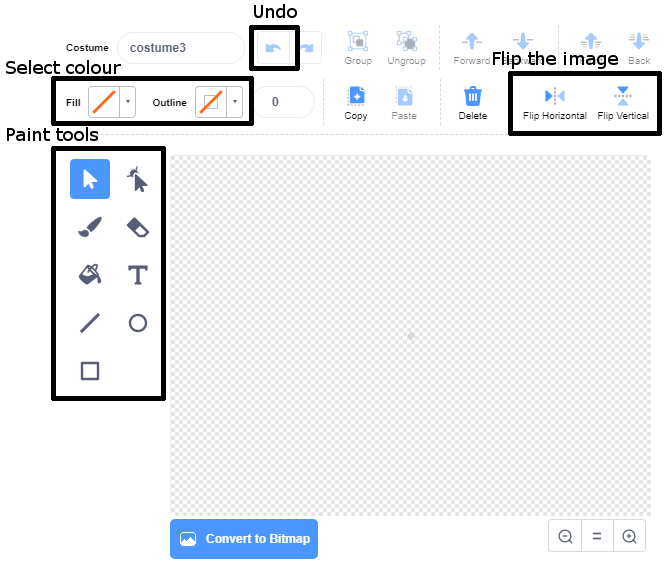
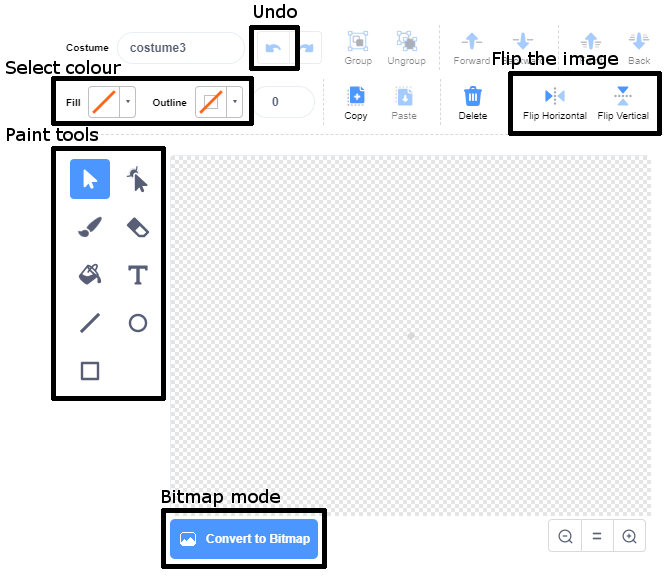
updates after readthrough

Changed region(s): [[0.2402, 0.8423, 0.5105, 0.9983]]

diff --git a/en/content.md b/en/content.md
@@ -1,4 +1,4 @@
-# Game design
+# Graphics for games
 
 # Leader notes
 
@@ -6,7 +6,7 @@
 
 This activity fulfills Stage 3, Requirement 3 of the Digital Maker Staged Activity Badge (design and create digital graphics). 
 
-Young people will design a theme and create the sprites for a computer game.
+Young people will design a theme and create the sprites and background for a computer game.
 
 ## Information 
 
@@ -23,12 +23,12 @@ Young people will design a theme and create the sprites for a computer game.
 
 ### If your meeting place has WiFi
 
-Run Scratch online in a web browser with an internet connection and open the starter project "shape shooter" using this link [rpf.io/scouts-game-design-on](http://rpf.io/scouts-game-design-on).
+Run Scratch online in a web browser with an internet connection and open the starter project "shape shooter" using this link [rpf.io/scouts-graphics-on](http://rpf.io/scouts-game-design-on).
 
 ### If your meeting place doesn’t have WiFi
 
 + Download the Scratch Desktop application beforehand; refer to the Scratch guide [rpf.io/scouts-scratch](http://rpf.io/scouts-scratch) for instructions. 
-+ Download the Scouts Game Design starter project "shape-shooter.sb3" from [rpf.io/scouts-game-design-go](http://rpf.io/scouts-game-design-go).
++ Download the Scouts Game Design starter project "shape-shooter.sb3" from [rpf.io/scouts-graphics-go](http://rpf.io/scouts-graphics-go).
 
 ## Key messages
 
@@ -37,7 +37,7 @@ Run Scratch online in a web browser with an internet connection and open the sta
 
 ## Leader instructions
 1. Discuss that computer games are not only created using code but also images.
-2. Describe that each image in a computer game is known as a sprite.
+2. Describe that image in a computer game is often known as a sprite.
 3. If they haven't used it before introduce the young people to Scratch. Explain that it is a programming language for creating games, stories and animations.
 4. Explain that they will be modifying a computer game by creating new sprites for it.
 5. Demo the "shape shooter" game.
@@ -45,31 +45,29 @@ Run Scratch online in a web browser with an internet connection and open the sta
 
 ## Alternatives
 
-+ Use other image editing software and upload costumes. 
-+ Modify the games code to make it work differently
++ Create their own game and graphics.
++ Use more sophisticated image editing software such as Photoshop [photoshop.com](http://photoshop.com) or [GIMP](https://gimp.com) and upload costumes. 
 
 ## Safety
 
-If the young people are working online, tell them to ask for permission before viewing any other websites. It’s a good idea to set up parental controls — you can find instructions for this on the NSPCC website (rpf.io/scouts-nspcc-online).
+If the young people are working online, tell them to ask for permission before viewing any other websites. It’s a good idea to set up parental controls — you can find instructions for this on the NSPCC website [rpf.io/scouts-nspcc-online](http://rpf.io/scouts-nspcc-online).
 
-You should also give each young person a Stay Safe leaflet (rpf.io/scouts-staysafe).
+You should also give each young person a Stay Safe leaflet [rpf.io/scouts-staysafe](http://rpf.io/scouts-staysafe).
 
 ## Adaptability
 
-+ Scouts could take pictures of objects they wanted to use as sprites and use the **Upload costume** option to create a sprite from the image.
++ Take pictures of objects for the sprites and use the **Upload costume** option.
 
 ## Community and sharing
 
 + Ask the young people to showcase their new games and graphics. 
-+ The games can also be shared on the Scratch website by logging in and clicking **Share**.
++ The games can also be shared on the Scratch website by logging in and using the **Share** option.
 
-# Activity / project title
+# Graphics for games
 
 # Handout
 
-## Did you know
-
-Computer sprites are named after the mythical creatures because they *float* across the screen.
+In this activity you will be designing your own theme and graphics for a computer game called shape shooter.
 
 ## Instructions
 
@@ -77,80 +75,84 @@ Computer sprites are named after the mythical creatures because they *float* acr
 
 1. Open the "shape shooter" starter project in Scratch 3.
 
-**Online:** open the starter project at [rpf.io/scouts-game-design-on](http://rpf.io/scouts-game-design-on)
+    **Online:** open the starter project at [rpf.io/scouts-game-design-on](http://rpf.io/scouts-game-design-on)
 
-**Offline:** click **File**, **Load from your computer** and select the `shape-shooter.sb3` file the leader has downloaded.
+    **Offline:** click **File**, **Load from your computer** and select the `shape-shooter.sb3` file the leader has downloaded.
 
-You will see the game, sprites and code in Scratch.
+    ![starter project](images/starter-project-annotated.png)
 
-![starter project](images/starter-project.png)
+    You will see the shape shooter game, sprites, costumes and code in Scratch.
 
-![starter project](images/starter-project-annotated.png)
+2. Click on the **green flag** to play the game.
 
-1. Clicking on the **green flag** to play the game.
+    Shoot the squares with the ovals by using your mouse or touchscreen to control the triangle.
 
-Shoot the squares with the ovals by using your mouse or touchscreen to control the triangle.
+    ![the game playing](images/play-game.png)
 
-![the game playing](images/play-game.png)
+    As you can see at the moment the games graphics are really simple.
 
-As you can see the games graphics are really simple.
+3. Think about or discuss with your group what theme you want the game to have. The choice is yours, it could be a scouts theme such as "badge collector" or something of your own creation like "Fairies vs dragons".
 
-1. Think about or discuss with your group what theme you want the game to have. The choice is yours, it could be a scouts theme such as "badge collector" or something of your own creation like "Fairies vs dragons".
+    ![badge collector game](images/badge-collector.png)
 
-![badge collector game](images/badge-collector.png)
-
-1. Decide on a background and what 3 objects you are going to use for the **square**, **triangle** and **oval** sprites.
+4. Decide on a background and what you are going to use instead of the **square**, **triangle** and **oval** sprites.
 
 ### Part 2 - Create your sprites
 
 1. Select the square sprite and click on the costumes tab to open the editor.
 
-![costume editor with sprite and costume highlighted](images/square-costume-annotated.png)
+    ![costume editor with sprite and costume highlighted](images/square-costume-annotated.png)
 
-1. Select **Choose a Costume** in the bottom left and click **Paint** to create a new costume.
+2. Select **Choose a Costume** in the bottom left and click **Paint** to create a new costume.
 
-![choose a costume menu with paint highlighted](images/paint-sprite.png)
+    ![choose a costume menu with paint highlighted](images/paint-sprite.png)
 
-1. Use the editor to create a new costume for the square sprite.
+3. Use the editor to create a new costume for the square sprite.
 
-![vector editor](images/vector-editor-annotated.png)
+    ![vector editor](images/vector-editor-annotated.png)
 
-The **paint tools** allow you to draw and changes the lines, shapes and text in your sprite.
+    The **paint tools** allow you to draw and changes the lines, shapes and text in your sprite.
 
-The colour can be changed using the colour selector for **fill** and **outline**. 
+    The colour can be changed using the colour selector for **fill** and **outline**. 
 
-The colour is picked using 3 values:
-+ `color` - the colour you want
-+ `saturation` - how much of the colour you want
-+ `brightness` - how bright you want the colour to be
+    The colour is picked using 3 values:
+    + `color` - the colour you want
+    + `saturation` - how much of the colour you want
+    + `brightness` - how bright you want the colour to be
 
-![colour selector](images/colour-selector.png)
+    ![colour selector](images/colour-selector.png)
 
-1. The square sprite can have more than 1 costume and it will switch between them as the move across the screen.
+    Bitmap mode allows you to paint your costumes using pixels rather than lines and shapes.
 
-By creating more than 1 costume for the sprite, you can animate it so looks like it is moving across the screen. 
+4. The square sprite can have more than 1 costume and it will switch between them as the move across the screen.
 
-1. Delete any sprites you no longer need by clicking on the (x).
+    By creating more than 1 costume for the sprite, you can animate it so looks like it is moving across the screen. 
 
-![delete sprite with x highlighted](images/delete-sprite-annotated.png)
+5. Delete any sprites you no longer need by clicking on the (x).
 
-1. Play the game and see how your new sprite looks.
+    ![delete sprite with x highlighted](images/delete-sprite-annotated.png)
 
-1. Create new costumes for your **triangle** and **oval** sprites.
+6. Play the game and see how your new sprite looks.
+
+7. Create new costumes for your **triangle** and **oval** sprites.
 
 ### Part 3 - Create a backdrop
 
 1. Your game should also have a background to compliment the game, select the **Stage** and click **Backdrops** to display the backdrops.
 
-![scratch screen with stage and backdrops highlighted](images/stage-backdrops-annotated.png)
+    ![scratch screen with stage and backdrops highlighted](images/stage-backdrops-annotated.png)
 
-1. There are 2 backdrops, one used while the game is playing, one when its game over.
+2. There are 2 backdrops, one used while the game is playing, one when its game over.
 
-![game and game over backdrops](images/backdrops.png)
+    ![game and game over backdrops](images/backdrops.png)
 
-1. Create a new background for your game to complete the theme.
+3. Create a new background for your game to complete the theme.
 
-1. Share your completed game with your friends and see who can get the highest score.
+4. Share your completed game with your friends and see who can get the highest score.
+
+## Did you know
+
+Computer sprites are named after the mythical creatures because they *float* across the screen.
 
 ## Discuss
 
